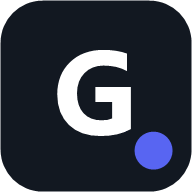
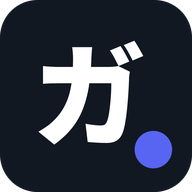
サイトのアイコンを新しいロゴ「ガ.」に変更（G. は GDots 用のため）

diff --git a/privacy/index.html b/privacy/index.html
@@ -15,9 +15,9 @@
 <title>プライバシーポリシー｜Discordコミュニティマネージャー ガリバー</title>
 <meta name="description" content="Discordコミュニティマネージャー ガリバーの公式サイト（gulliver2021.com）のプライバシーポリシーです。お問い合わせ情報の扱い、Googleアナリティクスの利用について記載しています。">
 <link rel="canonical" href="https://gulliver2021.com/privacy/">
-<link rel="icon" type="image/png" sizes="32x32" href="/images/favicon-32.png?v=2">
-<link rel="icon" type="image/png" sizes="192x192" href="/images/icon-192.png?v=2">
-<link rel="apple-touch-icon" href="/images/apple-touch-icon.png?v=2">
+<link rel="icon" type="image/png" sizes="32x32" href="/images/favicon-32.png?v=3">
+<link rel="icon" type="image/png" sizes="192x192" href="/images/icon-192.png?v=3">
+<link rel="apple-touch-icon" href="/images/apple-touch-icon.png?v=3">
 <link rel="stylesheet" href="../style.css?v=20261115a">
 </head>
 <body>

diff --git a/index.html b/index.html
@@ -24,9 +24,9 @@
 <meta property="og:locale" content="ja_JP">
 <meta name="twitter:card" content="summary_large_image">
 <meta name="twitter:site" content="@gulliver_hub">
-<link rel="icon" type="image/png" sizes="32x32" href="/images/favicon-32.png?v=2">
-<link rel="icon" type="image/png" sizes="192x192" href="/images/icon-192.png?v=2">
-<link rel="apple-touch-icon" href="/images/apple-touch-icon.png?v=2">
+<link rel="icon" type="image/png" sizes="32x32" href="/images/favicon-32.png?v=3">
+<link rel="icon" type="image/png" sizes="192x192" href="/images/icon-192.png?v=3">
+<link rel="apple-touch-icon" href="/images/apple-touch-icon.png?v=3">
 <link rel="preload" as="image" href="/images/hero-discord.jpg" fetchpriority="high" media="(min-width: 761px)">
 <link rel="stylesheet" href="style.css?v=20261115a">
 <script type="application/ld+json">

diff --git a/hakase-privacy/index.html b/hakase-privacy/index.html
@@ -5,9 +5,9 @@
 <meta name="viewport" content="width=device-width, initial-scale=1">
 <meta name="robots" content="noindex">
 <title>ハカセ プライバシーポリシー | ガリバー オフィシャルサイト</title>
-<link rel="icon" type="image/png" sizes="32x32" href="/images/favicon-32.png?v=2">
-<link rel="icon" type="image/png" sizes="192x192" href="/images/icon-192.png?v=2">
-<link rel="apple-touch-icon" href="/images/apple-touch-icon.png?v=2">
+<link rel="icon" type="image/png" sizes="32x32" href="/images/favicon-32.png?v=3">
+<link rel="icon" type="image/png" sizes="192x192" href="/images/icon-192.png?v=3">
+<link rel="apple-touch-icon" href="/images/apple-touch-icon.png?v=3">
 <link rel="stylesheet" href="../style.css?v=20261115a">
 </head>
 <body>

diff --git a/column/community-manager/index.html b/column/community-manager/index.html
@@ -22,9 +22,9 @@
 <meta property="og:locale" content="ja_JP">
 <meta name="twitter:card" content="summary_large_image">
 <meta name="twitter:site" content="@gulliver_hub">
-<link rel="icon" type="image/png" sizes="32x32" href="/images/favicon-32.png?v=2">
-<link rel="icon" type="image/png" sizes="192x192" href="/images/icon-192.png?v=2">
-<link rel="apple-touch-icon" href="/images/apple-touch-icon.png?v=2">
+<link rel="icon" type="image/png" sizes="32x32" href="/images/favicon-32.png?v=3">
+<link rel="icon" type="image/png" sizes="192x192" href="/images/icon-192.png?v=3">
+<link rel="apple-touch-icon" href="/images/apple-touch-icon.png?v=3">
 <link rel="stylesheet" href="../../style.css?v=20261115a">
 <script type="application/ld+json">
 {

diff --git a/column/community-marketing/index.html b/column/community-marketing/index.html
@@ -22,9 +22,9 @@
 <meta property="og:locale" content="ja_JP">
 <meta name="twitter:card" content="summary_large_image">
 <meta name="twitter:site" content="@gulliver_hub">
-<link rel="icon" type="image/png" sizes="32x32" href="/images/favicon-32.png?v=2">
-<link rel="icon" type="image/png" sizes="192x192" href="/images/icon-192.png?v=2">
-<link rel="apple-touch-icon" href="/images/apple-touch-icon.png?v=2">
+<link rel="icon" type="image/png" sizes="32x32" href="/images/favicon-32.png?v=3">
+<link rel="icon" type="image/png" sizes="192x192" href="/images/icon-192.png?v=3">
+<link rel="apple-touch-icon" href="/images/apple-touch-icon.png?v=3">
 <link rel="stylesheet" href="../../style.css?v=20261115a">
 <script type="application/ld+json">
 {

diff --git a/column/community-monetization/index.html b/column/community-monetization/index.html
@@ -22,9 +22,9 @@
 <meta property="og:locale" content="ja_JP">
 <meta name="twitter:card" content="summary_large_image">
 <meta name="twitter:site" content="@gulliver_hub">
-<link rel="icon" type="image/png" sizes="32x32" href="/images/favicon-32.png?v=2">
-<link rel="icon" type="image/png" sizes="192x192" href="/images/icon-192.png?v=2">
-<link rel="apple-touch-icon" href="/images/apple-touch-icon.png?v=2">
+<link rel="icon" type="image/png" sizes="32x32" href="/images/favicon-32.png?v=3">
+<link rel="icon" type="image/png" sizes="192x192" href="/images/icon-192.png?v=3">
+<link rel="apple-touch-icon" href="/images/apple-touch-icon.png?v=3">
 <link rel="stylesheet" href="../../style.css?v=20261115a">
 <script type="application/ld+json">
 {

diff --git a/column/discord-community/index.html b/column/discord-community/index.html
@@ -22,9 +22,9 @@
 <meta property="og:locale" content="ja_JP">
 <meta name="twitter:card" content="summary_large_image">
 <meta name="twitter:site" content="@gulliver_hub">
-<link rel="icon" type="image/png" sizes="32x32" href="/images/favicon-32.png?v=2">
-<link rel="icon" type="image/png" sizes="192x192" href="/images/icon-192.png?v=2">
-<link rel="apple-touch-icon" href="/images/apple-touch-icon.png?v=2">
+<link rel="icon" type="image/png" sizes="32x32" href="/images/favicon-32.png?v=3">
+<link rel="icon" type="image/png" sizes="192x192" href="/images/icon-192.png?v=3">
+<link rel="apple-touch-icon" href="/images/apple-touch-icon.png?v=3">
 <link rel="stylesheet" href="../../style.css?v=20261115a">
 <script type="application/ld+json">
 {

diff --git a/column/discord-permissions/index.html b/column/discord-permissions/index.html
@@ -22,9 +22,9 @@
 <meta property="og:locale" content="ja_JP">
 <meta name="twitter:card" content="summary_large_image">
 <meta name="twitter:site" content="@gulliver_hub">
-<link rel="icon" type="image/png" sizes="32x32" href="/images/favicon-32.png?v=2">
-<link rel="icon" type="image/png" sizes="192x192" href="/images/icon-192.png?v=2">
-<link rel="apple-touch-icon" href="/images/apple-touch-icon.png?v=2">
+<link rel="icon" type="image/png" sizes="32x32" href="/images/favicon-32.png?v=3">
+<link rel="icon" type="image/png" sizes="192x192" href="/images/icon-192.png?v=3">
+<link rel="apple-touch-icon" href="/images/apple-touch-icon.png?v=3">
 <link rel="stylesheet" href="../../style.css?v=20261115a">
 <script type="application/ld+json">
 {

diff --git a/column/discord-rules/index.html b/column/discord-rules/index.html
@@ -22,9 +22,9 @@
 <meta property="og:locale" content="ja_JP">
 <meta name="twitter:card" content="summary_large_image">
 <meta name="twitter:site" content="@gulliver_hub">
-<link rel="icon" type="image/png" sizes="32x32" href="/images/favicon-32.png?v=2">
-<link rel="icon" type="image/png" sizes="192x192" href="/images/icon-192.png?v=2">
-<link rel="apple-touch-icon" href="/images/apple-touch-icon.png?v=2">
+<link rel="icon" type="image/png" sizes="32x32" href="/images/favicon-32.png?v=3">
+<link rel="icon" type="image/png" sizes="192x192" href="/images/icon-192.png?v=3">
+<link rel="apple-touch-icon" href="/images/apple-touch-icon.png?v=3">
 <link rel="stylesheet" href="../../style.css?v=20261115a">
 <script type="application/ld+json">
 {

diff --git a/column/discord-security/index.html b/column/discord-security/index.html
@@ -22,9 +22,9 @@
 <meta property="og:locale" content="ja_JP">
 <meta name="twitter:card" content="summary_large_image">
 <meta name="twitter:site" content="@gulliver_hub">
-<link rel="icon" type="image/png" sizes="32x32" href="/images/favicon-32.png?v=2">
-<link rel="icon" type="image/png" sizes="192x192" href="/images/icon-192.png?v=2">
-<link rel="apple-touch-icon" href="/images/apple-touch-icon.png?v=2">
+<link rel="icon" type="image/png" sizes="32x32" href="/images/favicon-32.png?v=3">
+<link rel="icon" type="image/png" sizes="192x192" href="/images/icon-192.png?v=3">
+<link rel="apple-touch-icon" href="/images/apple-touch-icon.png?v=3">
 <link rel="stylesheet" href="../../style.css?v=20261115a">
 <script type="application/ld+json">
 {

diff --git a/column/make-automation/index.html b/column/make-automation/index.html
@@ -22,9 +22,9 @@
 <meta property="og:locale" content="ja_JP">
 <meta name="twitter:card" content="summary_large_image">
 <meta name="twitter:site" content="@gulliver_hub">
-<link rel="icon" type="image/png" sizes="32x32" href="/images/favicon-32.png?v=2">
-<link rel="icon" type="image/png" sizes="192x192" href="/images/icon-192.png?v=2">
-<link rel="apple-touch-icon" href="/images/apple-touch-icon.png?v=2">
+<link rel="icon" type="image/png" sizes="32x32" href="/images/favicon-32.png?v=3">
+<link rel="icon" type="image/png" sizes="192x192" href="/images/icon-192.png?v=3">
+<link rel="apple-touch-icon" href="/images/apple-touch-icon.png?v=3">
 <link rel="stylesheet" href="../../style.css?v=20261115a">
 <script type="application/ld+json">
 {

diff --git a/column/index.html b/column/index.html
@@ -22,9 +22,9 @@
 <meta property="og:locale" content="ja_JP">
 <meta name="twitter:card" content="summary_large_image">
 <meta name="twitter:site" content="@gulliver_hub">
-<link rel="icon" type="image/png" sizes="32x32" href="/images/favicon-32.png?v=2">
-<link rel="icon" type="image/png" sizes="192x192" href="/images/icon-192.png?v=2">
-<link rel="apple-touch-icon" href="/images/apple-touch-icon.png?v=2">
+<link rel="icon" type="image/png" sizes="32x32" href="/images/favicon-32.png?v=3">
+<link rel="icon" type="image/png" sizes="192x192" href="/images/icon-192.png?v=3">
+<link rel="apple-touch-icon" href="/images/apple-touch-icon.png?v=3">
 <link rel="stylesheet" href="../style.css?v=20261115a">
 <script type="application/ld+json">
 {
